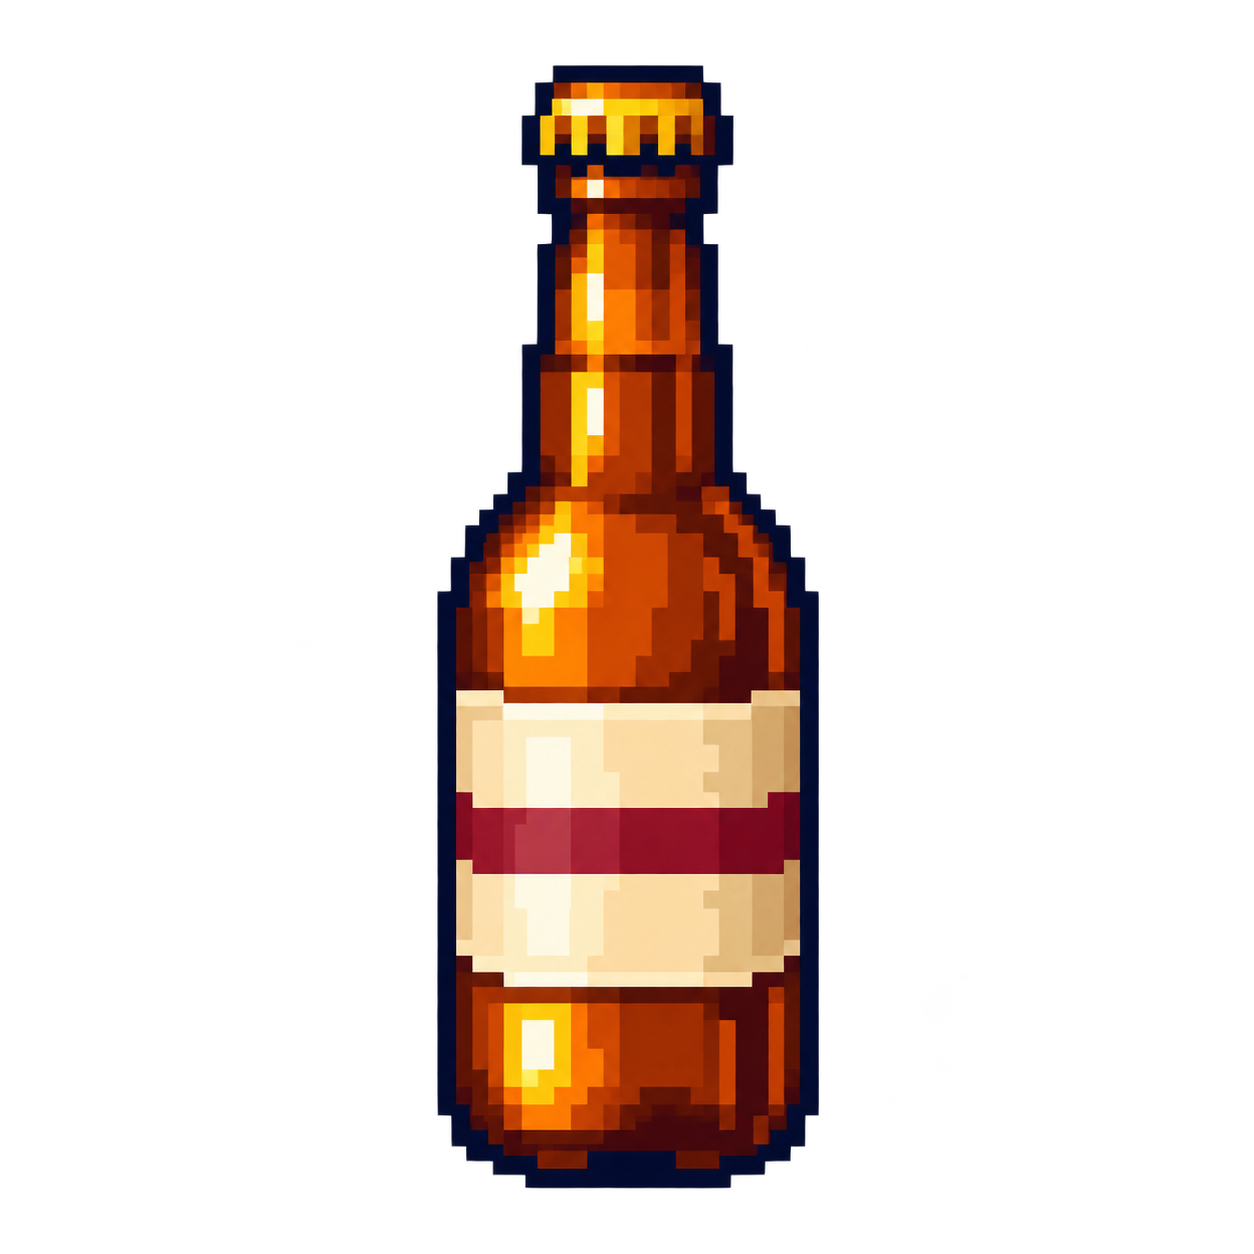
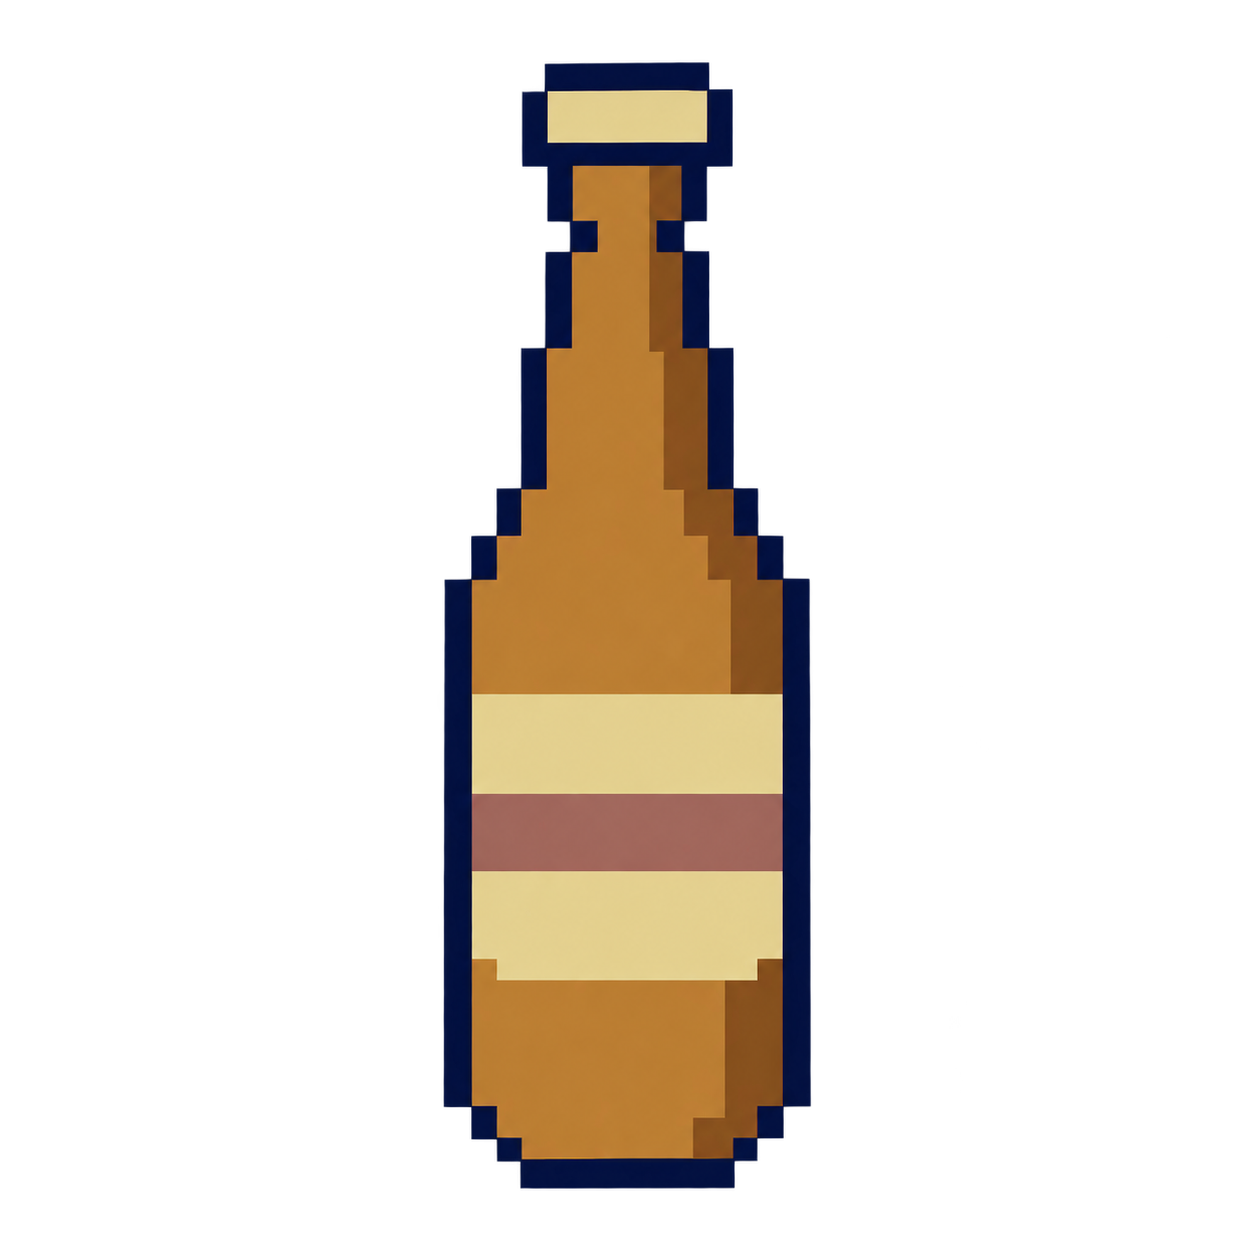
Simplify sprites and preserve storefront proportions
Redraw cars and beer as coarse flat-color shapes.
Shade shop bottle edges with close same-hue colors.
Scale the facade uniformly and repeat side displays.
Keep partial displays at the outside screen edges.
Update artwork prompts, README and the class map.

Validation: 37 tests pass; build has no warnings.
Inspect native gameplay and both police-light frames.

Changed region(s): [[0.3421, 0.0311, 0.6531, 0.9641]]

diff --git a/Docs/ClassMap.html b/Docs/ClassMap.html
@@ -51,7 +51,11 @@ Aktywny podskok, jazda po trawie i wyjazd nie uruchamiają kolejnego wybicia;
 opuszczenie wyspy pozwala na następny wjazd. Segmenty podskakują kolejno na własnym przekroczeniu.
 CarConvoy mnoży skalę bazową przez skalę terenu i podskoku oraz odejmuje uniesienie od Y.
 Efekty wizualne nie zmieniają kolizji; pauza zatrzymuje je w bieżącej fazie.
-ParkingLot.Draw rysuje mapę, narożniki i witrynę; scena dodaje auta, butelkę, rozprysk i UI.</li>
+ParkingLot.Draw rysuje mapę, narożniki i witrynę. DrawStorefront używa jednej skali
+160/724 dla obu osi: centralna fasada ma 480×160, a powtarzane boczne segmenty
+wypełniają pas 1280×160 bez zniekształcania drzwi, liter i towarów. Segmenty biegną
+od środka na zewnątrz; częściowe wystawy są przycinane tylko przy krawędziach ekranu.
+Scena dodaje auta, butelkę, rozprysk i UI.</li>
 <li><strong>Zebranie:</strong> GameScene.CollisionChecks porównuje Circle prowadzącego auta i butelki.
 Przecięcie najpierw wywołuje BeerBurst.Emit w dotychczasowym środku butelki,
 a potem przenosi kolejną butelkę na przeciwną stronę parkingu, resetuje puls i losuje prędkość,
@@ -136,7 +140,7 @@ które zwalnia teksturę PoliceLightbar; DuiGame zwalnia bufor RetroRenderer, a 
 <tr id="Easings"><td><a href="../DUI.Game/Framework/Easings.cs">Easings</a></td><td>31 statycznych funkcji float → float: Linear i 30 krzywych z easings.net. Postęp wejściowy 0–1; Back i Elastic zachowują wychylenia poza ten zakres. EaseInOutSine wygładza orientację aut, a EaseOutCubic i EaseInQuad sterują wybiciem i lądowaniem.</td></tr>
 <tr id="CarConvoy"><td><a href="../DUI.Game/GameObjects/CarConvoy.cs">CarConvoy</a></td><td>Łączy ConvoyMovement z renderowaniem i ParkingLot. Posiada stan CarHop oraz poprzednią pozę każdego auta. Po każdym podkroku aktualizuje podskoki i sprawdza ogrodzenie i bramę przez ParkingGeometry na podstawie środka oraz obrotu głowy. Draw pobiera interpolowaną pozę, dodaje CarSway, skalę trawnika i podskok. Indeks 0 rysuje autem gracza, pozostałe radiowozem ze światłami PoliceLightbar. Dispose zwalnia zasób belki; tekstury samochodów należą do ContentManager. Przekazuje BodyCollision i BoundaryCollision do sceny; GetBounds zachowuje promień 40 px dla zbierania butelek.</td></tr>
 <tr id="PoliceLightbar"><td><a href="../DUI.Game/GameObjects/PoliceLightbar.cs">PoliceLightbar</a></td><td>Rysuje pikselową belkę świetlną w lokalnych współrzędnych radiowozu. Dokładnie dwie klatki po 250 ms: nieprzezroczyste lampy 8×12 w jaskrawym niebieskim lub czerwonym kolorze, z refleksem 2×2. C64Palette dostarcza czerń oprawy i biel refleksu. Klatka zależy od RenderTime modelu. Współdzieli obrót, skalę i uniesienie auta. Posiada teksturę jednego białego piksela; CarConvoy.Dispose ją zwalnia.</td></tr>
-<tr id="ParkingLot"><td><a href="../DUI.Game/GameObjects/ParkingLot.cs">ParkingLot</a></td><td>Posiada Tilemap z c64-parking-atlas, witrynę c64-storefront, regiony ogrodzenia i geometrię dwóch wysp trawy. DrawFenceCorners składa lustrzane narożniki z poziomego półprzęsła, pionowego odcinka i kątownika. Ustala kafelek 80×80, początek gry oraz ParkingGeometry; udostępnia DrivingBounds i BottleBounds. GrassIslands udostępnia nieedytowalny widok prostokątów dla CarHop; GetCarScale oblicza powiększenie terenu do 106%.</td></tr>
+<tr id="ParkingLot"><td><a href="../DUI.Game/GameObjects/ParkingLot.cs">ParkingLot</a></td><td>Posiada Tilemap z c64-parking-atlas, witrynę c64-storefront, regiony ogrodzenia i geometrię dwóch wysp trawy. DrawStorefront skaluje źródło równomiernie do 480×160 na środku i uzupełnia boki powtarzanym segmentem wystawy; nie ściska obrazu do proporcji całego pasa. DrawFenceCorners składa lustrzane narożniki z poziomego półprzęsła, pionowego odcinka i kątownika. Ustala kafelek 80×80, początek gry oraz ParkingGeometry; udostępnia DrivingBounds i BottleBounds. GrassIslands udostępnia nieedytowalny widok prostokątów dla CarHop; GetCarScale oblicza powiększenie terenu do 106%.</td></tr>
 <tr id="ParkingGeometry"><td><a href="../DUI.Game/GameObjects/ParkingGeometry.cs">ParkingGeometry</a></td><td>Geometria kolizji zgodna z grafiką parkingu w skali kafelka 80×80. DrivingBounds sięga do wewnętrznych krawędzi płotu; GateBounds opisuje wysuniętą zamkniętą bramę. IntersectsBoundary sprawdza oba obszary przez ConvoyCollision. BottleBounds wyznacza prostokątny obszar odbić i odrodzeń butelek, kończący się przed bramą.</td></tr>
 <tr id="ConvoyMovement"><td><a href="../DUI.Game/GameObjects/ConvoyMovement.cs">ConvoyMovement</a></td><td>Model płynnej jazdy: 400 px/s, skręt 90° w 160 ms przez EaseInOutSine, dwa oczekujące kierunki. Podkroki 5 ms, zachowanie reszty czasu i interpolacja obrazu. Cars udostępnia aktualne CarPose, GetRenderPose pozy do rysowania. Auta odtwarzają ślad w odstępach 80 px. Stepped synchronizuje teren i granice, BodyCollision zatrzymuje symulację. Stop przerywa także pozostałą część aktualizacji.</td></tr>
 <tr id="CarPose"><td><a href="../DUI.Game/GameObjects/CarPose.cs">CarPose</a></td><td>Niezmienny środek auta w pikselach planszy, obrót w radianach oraz droga wzdłuż śladu głowy. Interpolacja uwzględnia zawijanie kąta.</td></tr>
@@ -150,8 +154,10 @@ które zwalnia teksturę PoliceLightbar; DuiGame zwalnia bufor RetroRenderer, a 
 <h2>Zasoby samochodów</h2>
 <p>Gracz używa <a href="../DUI.Game/Content/Images/car.png">car.png</a>, a ogon
 <a href="../DUI.Game/Content/Images/police-car.png">police-car.png</a>.
-Oba sprite’y uproszczono wbudowanym image_gen do dużych plam koloru, prostych szyb
-i pojedynczych refleksów w klimacie C64. Radiowóz ma srebrno-niebieskie panele
+Oba sprite’y przerysowano wbudowanym image_gen jako proste ikony o kompozycji
+około 24×24 logicznych pikseli: duże plamy koloru, jednolite szyby, proste koła
+i pojedynczy cień. Bez refleksów, wewnętrznych obwódek i drobnych detali.
+Tekstury pozostają w pełnym rozmiarze; nie są filtrowane ani automatycznie pikselizowane. Radiowóz ma srebrno-niebieskie panele
 bez drobnego napisu. Zachowują rozmiar, orientację w prawo i przezroczyste tło. Światła nie są zapisane w teksturze:
 PoliceLightbar nakłada na pusty dach animację z dwóch stanów.
 Pełny prompt i źródło referencyjne są w <a href="AssetPrompts.json">AssetPrompts.json</a>.</p>
@@ -163,11 +169,14 @@ wykorzystuje <a href="../DUI.Game/Content/Images/c64-parking-atlas.png">atlas C6
 odstęp 8 i początek (4,4), co pomija linie podziału arkusza.
 <a href="../DUI.Game/Content/Images/c64-storefront.png">Witryna C64</a> pokrywa dwa górne rzędy,
 a atlas.png nadal obsługuje font i UI. Kafelki są widoczne jako 80×80 pikseli,
-a witryna jako 1280×160. Tekstury zachowują swoje kolory bez redukcji palety. Szachownice 2×2 z dwóch kolorów oraz rzadsze pikselowe akcenty
-stanowią część materiałów i cieni w teksturach. Na każdej z czterech półek stoi 12 smukłych butelek, łącznie 48. Ich boczne krawędzie
-mają co drugi piksel w ciemniejszym odcieniu tego samego koloru, bez czarnych wcięć;
-środek sylwetki pozostaje jednolity. Wąskie sylwetki w źródle uwzględniają
-różne skale poziomą i pionową witryny w grze. Oba warianty powstały przez edycję
+a pas witryny jako 1280×160. Centralny obraz 2172×724 jest rysowany jako 480×160
+z jednakową skalą w obu osiach. Region (26,0,432,724), przecięty przez szare filary
+pierwszej wystawy, jest powtarzany od środkowej fasady w stronę obu krawędzi ekranu.
+Szyld i drzwi występują tylko raz, a niepełne segmenty wypadają na skraju obrazu. Tekstury zachowują swoje kolory bez redukcji palety. Szachownice 2×2 z dwóch kolorów oraz rzadsze pikselowe akcenty
+stanowią część materiałów i cieni w teksturach. Każdy segment wystawy ma 12 smukłych butelek. Ich boczne krawędzie
+mają co drugi piksel w zbliżonym ciemniejszym odcieniu tego samego koloru,
+np. czerwień #9A6759 z #805247, bez czarnych wcięć; środek pozostaje jednolity.
+Wzory są częścią tekstury, a jednakowa skala zachowuje ich proporcje. Oba warianty powstały przez edycję
 wbudowanym image_gen; oryginały pozostają materiałem źródłowym.
 Narożniki korzystają z górnych 100 wierszy kafelka 10 i prawej połowy
 kafelka 12. Oba fragmenty zachowują skalę atlasu, więc szyny i wzór siatki
@@ -179,6 +188,12 @@ całego połączenia. ParkingGeometry uwzględnia położenie metalu wewnątrz k
 boczne krawędzie są odsunięte o 46 px od boków planszy, poziome przęsło
 zaczyna się 26 px poniżej początku dolnego rzędu, a brama 14 px poniżej. Prompty nowych grafik są w
 <a href="AssetPrompts.json">AssetPrompts.json</a>.</p>
+<h2>Zasób zbieranej butelki</h2>
+<p><a href="../DUI.Game/Content/Images/beer-bottle.png">beer-bottle.png</a> ma prostą
+sylwetkę z dużych bloków, bursztynowe szkło z jednym ciemniejszym brzegiem, płaski
+kapsel i kremową etykietę z czerwonym pasem. Nie ma połysku, drobnych refleksów
+ani napisów. Powstała przez przerysowanie image_gen; BeerBottle zachowuje skalę,
+pulsowanie i promień kolizji 20. Prompt jest w AssetPrompts.json.</p>
 <h2>Zasób licznika</h2>
 <p><a href="../DUI.Game/Content/Images/per-mille.png">per-mille.png</a> to cały znak ‰
 w jednej przezroczystej teksturze 42×29. Powstał z ręcznie narysowanych figur w

diff --git a/DUI.Game/GameObjects/ParkingLot.cs b/DUI.Game/GameObjects/ParkingLot.cs
@@ -85,8 +85,38 @@ public sealed class ParkingLot
     {
         _tilemap.Draw(spriteBatch);
         DrawFenceCorners(spriteBatch);
-        var shopBounds = new Rectangle(0, 0, _tilemap.Columns * TileSize, TileSize * 2);
-        spriteBatch.Draw(_storefront, shopBounds, Color.White);
+        DrawStorefront(spriteBatch);
+    }
+
+    private void DrawStorefront(SpriteBatch spriteBatch)
+    {
+        float width = _tilemap.Columns * TileSize;
+        float scale = TileSize * 2f / _storefront.Height;
+
+        // Repeat a complete left display bay, cut through its gray pillars.
+        // It has no sign or doorway, so the central facade remains unique.
+        var displayBay = new Rectangle(26, 0, 432, _storefront.Height);
+        float bayWidth = displayBay.Width * scale;
+        float sideWidth = (width - _storefront.Width * scale) * 0.5f;
+        for (float offset = 0; offset < sideWidth; offset += bayWidth)
+        {
+            // Any partial bay is clipped at the outer screen edge, not beside
+            // the entrance. Work outwards from the complete central facade.
+            DrawBay(sideWidth - offset - bayWidth);
+            DrawBay(width - sideWidth + offset);
+        }
+
+        // One uniform scale keeps doors, lettering and bottles in proportion.
+        // The bays fill the remaining width without stretching the 3:1 artwork.
+        var center = new Vector2(sideWidth, 0);
+        spriteBatch.Draw(_storefront, center, null,
+            Color.White, 0, Vector2.Zero, scale, SpriteEffects.None, 0);
+
+        void DrawBay(float left)
+        {
+            spriteBatch.Draw(_storefront, new Vector2(left, 0), displayBay,
+                Color.White, 0, Vector2.Zero, scale, SpriteEffects.None, 0);
+        }
     }
 
     private void DrawFenceCorners(SpriteBatch spriteBatch)

diff --git a/README.md b/README.md
@@ -25,7 +25,7 @@ tak jak w projekcie źródłowym.
 ## Oprawa retro
 
 Cała klatka, łącznie z UI, ma **1280×720 pikseli**. Kafelek zajmuje
-80×80 pikseli, a witryna 1280×160, dzięki czemu widać kształty samochodów,
+80×80 pikseli, a pas witryny 1280×160, dzięki czemu widać kształty samochodów,
 butelki, przekąski i cieniowanie grafik. `PointClamp` zachowuje ostre
 piksele przy skalowaniu. Obraz wypełnia całe okno bez ramki i pasów.
 Przy innych proporcjach okna każda oś jest dopasowywana osobno; dla
@@ -34,15 +34,22 @@ kolizji pozostają w jednostkach planszy.
 
 Retro wygląd tworzą same grafiki: uproszczone kształty, pikselowy font,
 kolory inspirowane C64 i wybrane dwukolorowe wzory w cieniach.
-W witrynie stoi po 12 smukłych butelek na każdej z czterech półek.
-Ich boki mają naprzemienne ciemniejsze odcienie tego samego koloru,
-bez czarnych wcięć; środki pozostają jednolite. Auta mają duże plamy
-koloru, proste szyby i pojedyncze refleksy, bez drobnych napisów i detali.
+Każdy segment wystawy zawiera 12 smukłych butelek. Ich boki mają
+naprzemienne, zbliżone ciemniejsze odcienie własnego koloru — na czerwonych
+ciemniejszą czerwień, bez czarnych wcięć. Środki pozostają jednolite.
+Auta i zbierana butelka piwa są przerysowane jako proste ikony z dużych
+bloków koloru, z pojedynczym cieniem, bez połysku, odbić i drobnych obwódek.
+To uproszczenie kompozycji sprite’ów, bez filtra zmniejszającego rozdzielczość.
 Wzory są częścią tekstur; ekran nie nakłada
 ditheringu ani nie ogranicza całej klatki do 16 kolorów. Oryginalne odcienie
 tekstur, przezroczystość i wygaszanie podczas pauzy zachowują szczegóły.
 `C64Palette` dostarcza czerń oprawy i biel małych refleksów belki z palety
 [Pepto PAL używanej przez VICE](https://raw.githubusercontent.com/VICE-Team/svn-mirror/main/vice/data/C64/pepto-pal.vpl).
+
+Witryna jest składana z elementów skalowanych jednakowo w obu osiach.
+Oryginał 2172×724 tworzy środkową fasadę 480×160 z wejściem i szyldem;
+powtarzane segmenty boczne wypełniają pozostałą szerokość. Drzwi, litery
+i towary zachowują proporcje, a pas sklepu nadal zajmuje dwa górne kafelki.
 
 UI ma układ logiczny 320×180 i zoom 4, rysowany bezpośrednio w buforze
 720p. Napisy zachowują czytelną wielkość i szczegóły fontu bez pośredniego
@@ -129,7 +136,8 @@ się standardowym przyciskiem systemu.
 - `Easings` — statyczne funkcje interpolacji (30 krzywych oraz `Linear`);
   `ConvoyMovement` używa `EaseInOutSine` do skrętów, a `CarHop` używa
   `EaseOutCubic` i `EaseInQuad` do wybicia oraz lądowania.
-- `ParkingLot` — układ parkingu, granice jazdy, rysowanie witryny oraz
+- `ParkingLot` — układ parkingu, granice jazdy, składanie proporcjonalnej
+  witryny z centralnej fasady i powtarzanych segmentów wystawy oraz
   wspólna geometria kafelków trawy i płynnego powiększania aut do 106%.
   `ParkingGeometry` wyznacza krawędzie ogrodzenia, osobny obrys bramy
   i prostokątny obszar ruchu butelek, który mieści się przed bramą.
@@ -211,7 +219,9 @@ Grafiki [samochodu](DUI.Game/Content/Images/car.png) i
 [Grafika radiowozu](DUI.Game/Content/Images/police-car.png) to wariant
 uproszczonego auta wygenerowany wbudowanym `image_gen`, z zachowaniem
 sylwetki, orientacji i przezroczystości. Oba auta mają mniej detali,
-większe bloki koloru oraz prostsze szyby w klimacie C64. Dach jest pusty w teksturze; światła rysuje kod gry.
+większe bloki koloru i jednolite szyby bez refleksów w klimacie C64.
+Dach radiowozu jest pusty w teksturze; światła rysuje kod gry.
+Zbierana butelka ma płaskie szkło, pojedynczy cień i prostą etykietę.
 
 Aktywny [atlas parkingu C64](DUI.Game/Content/Images/c64-parking-atlas.png) zawiera
 16 kafelków asfaltu, linii, krawężników, trawy, siatki i bramy.
